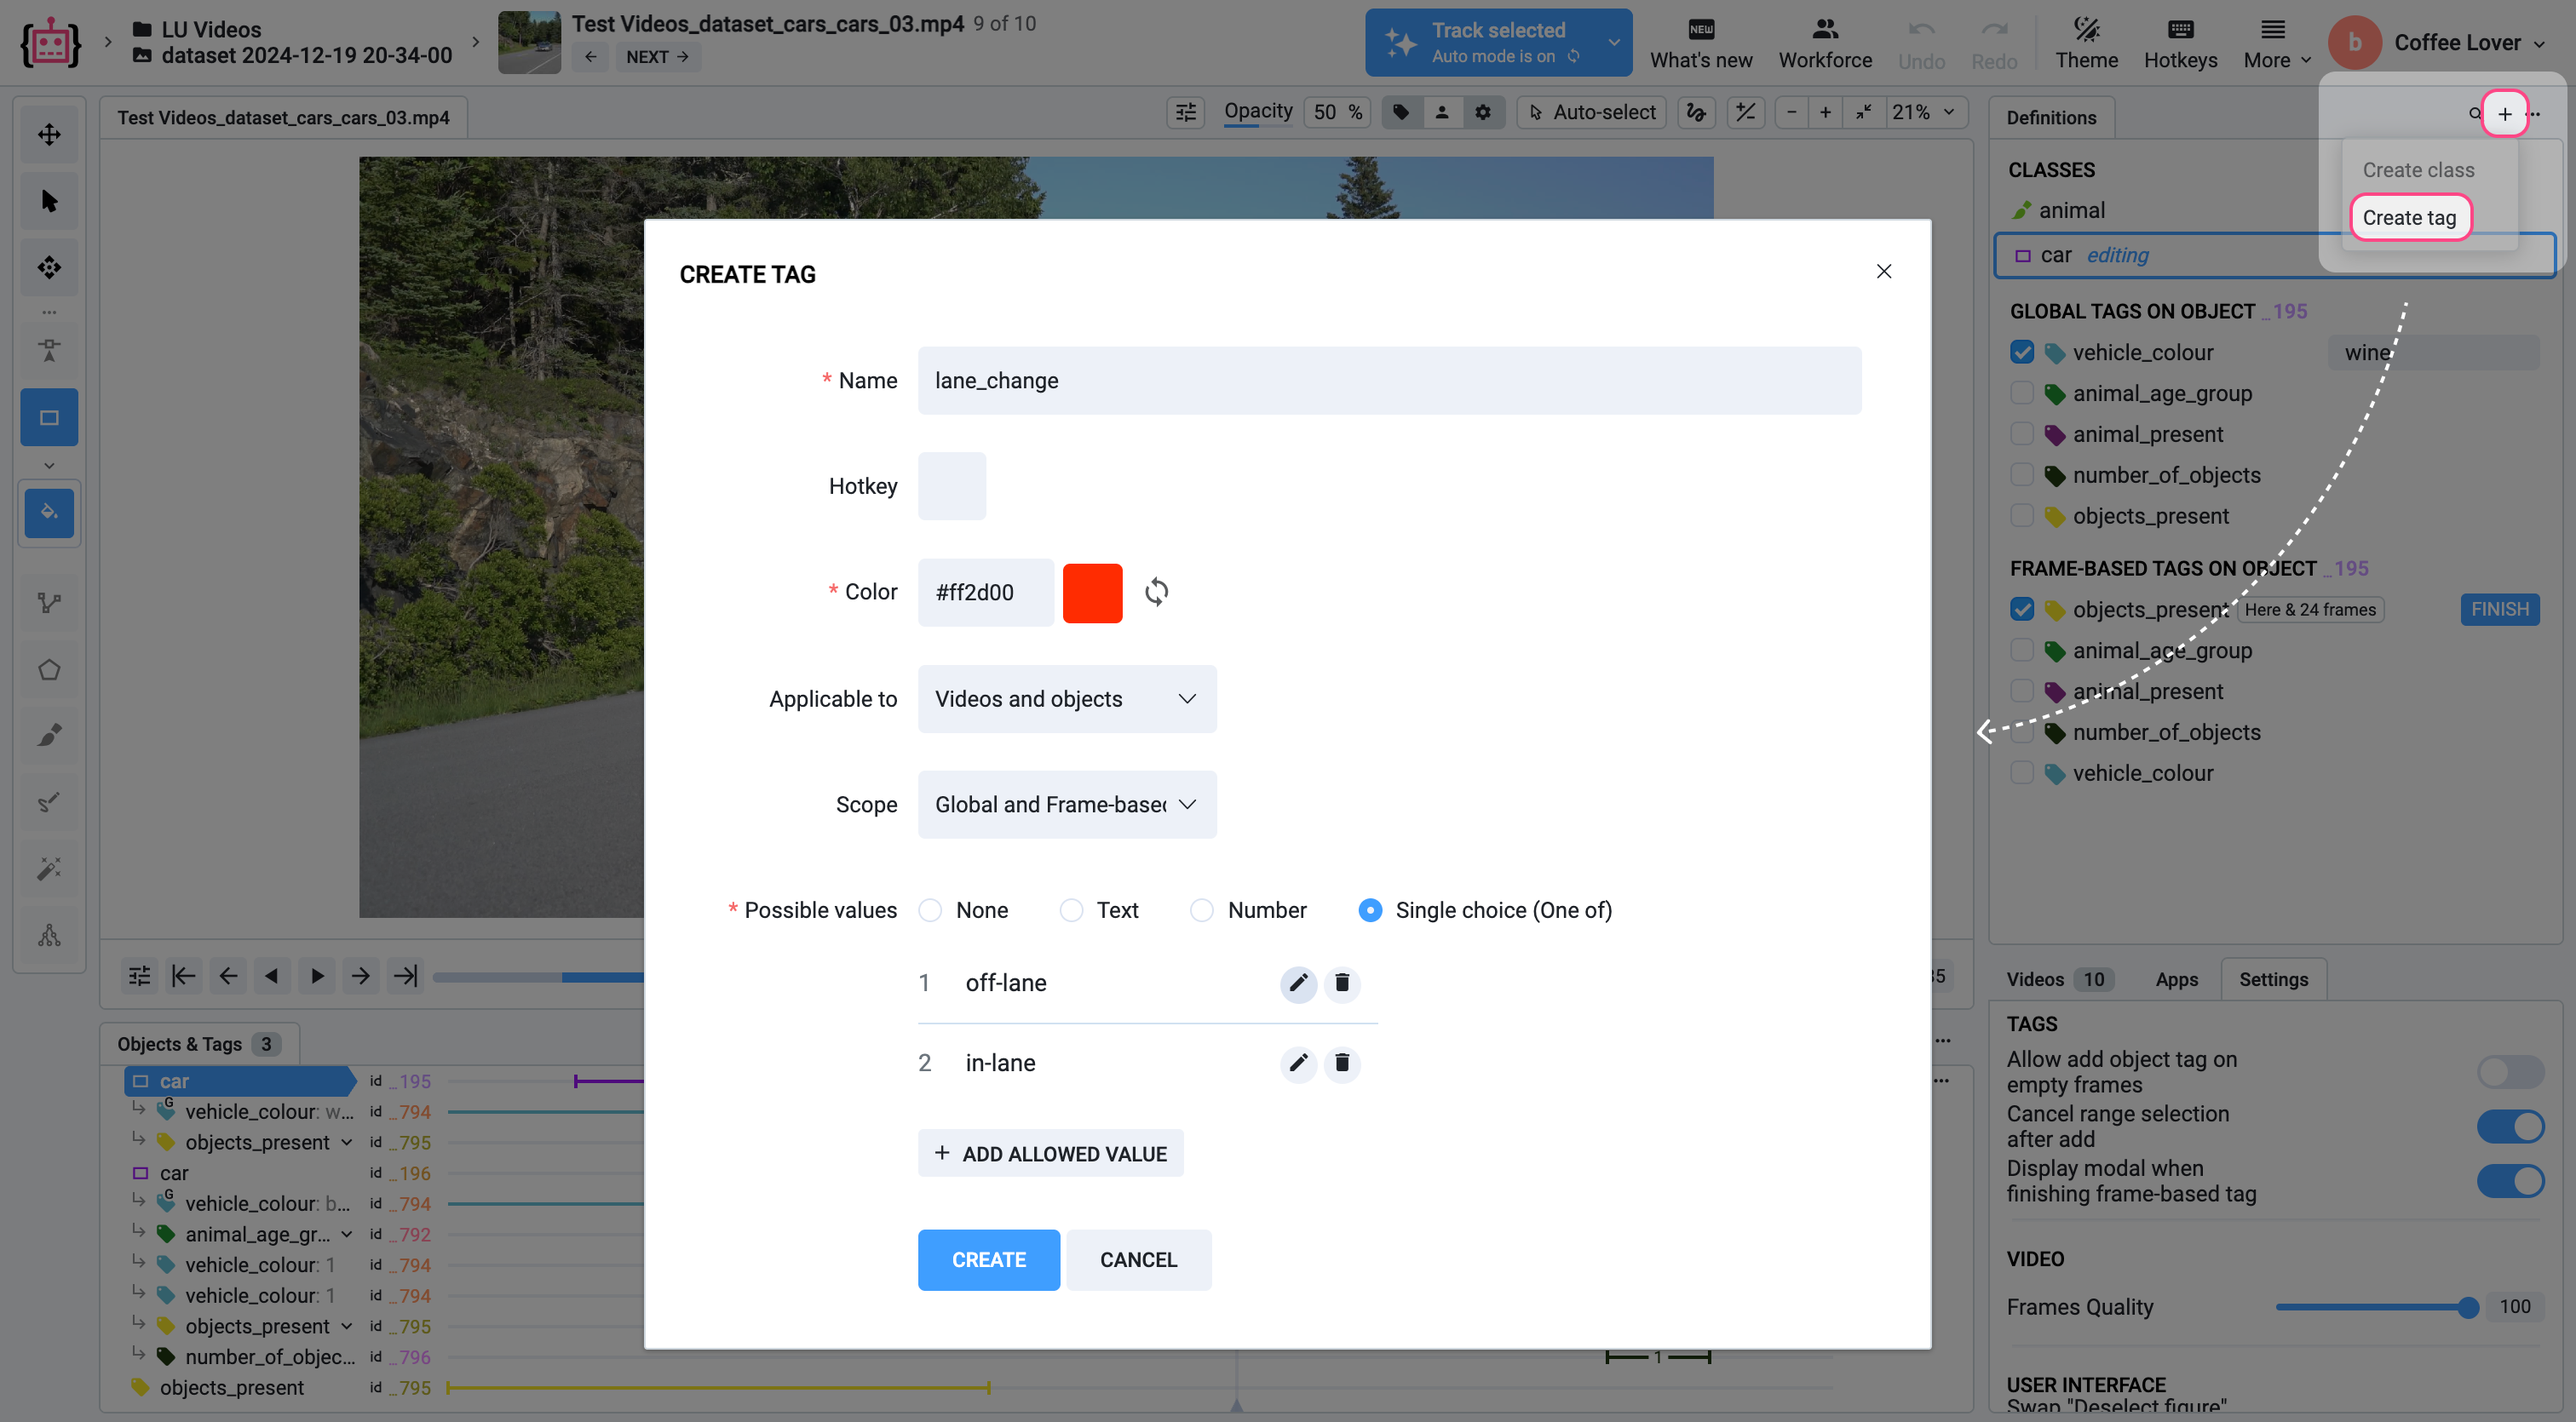
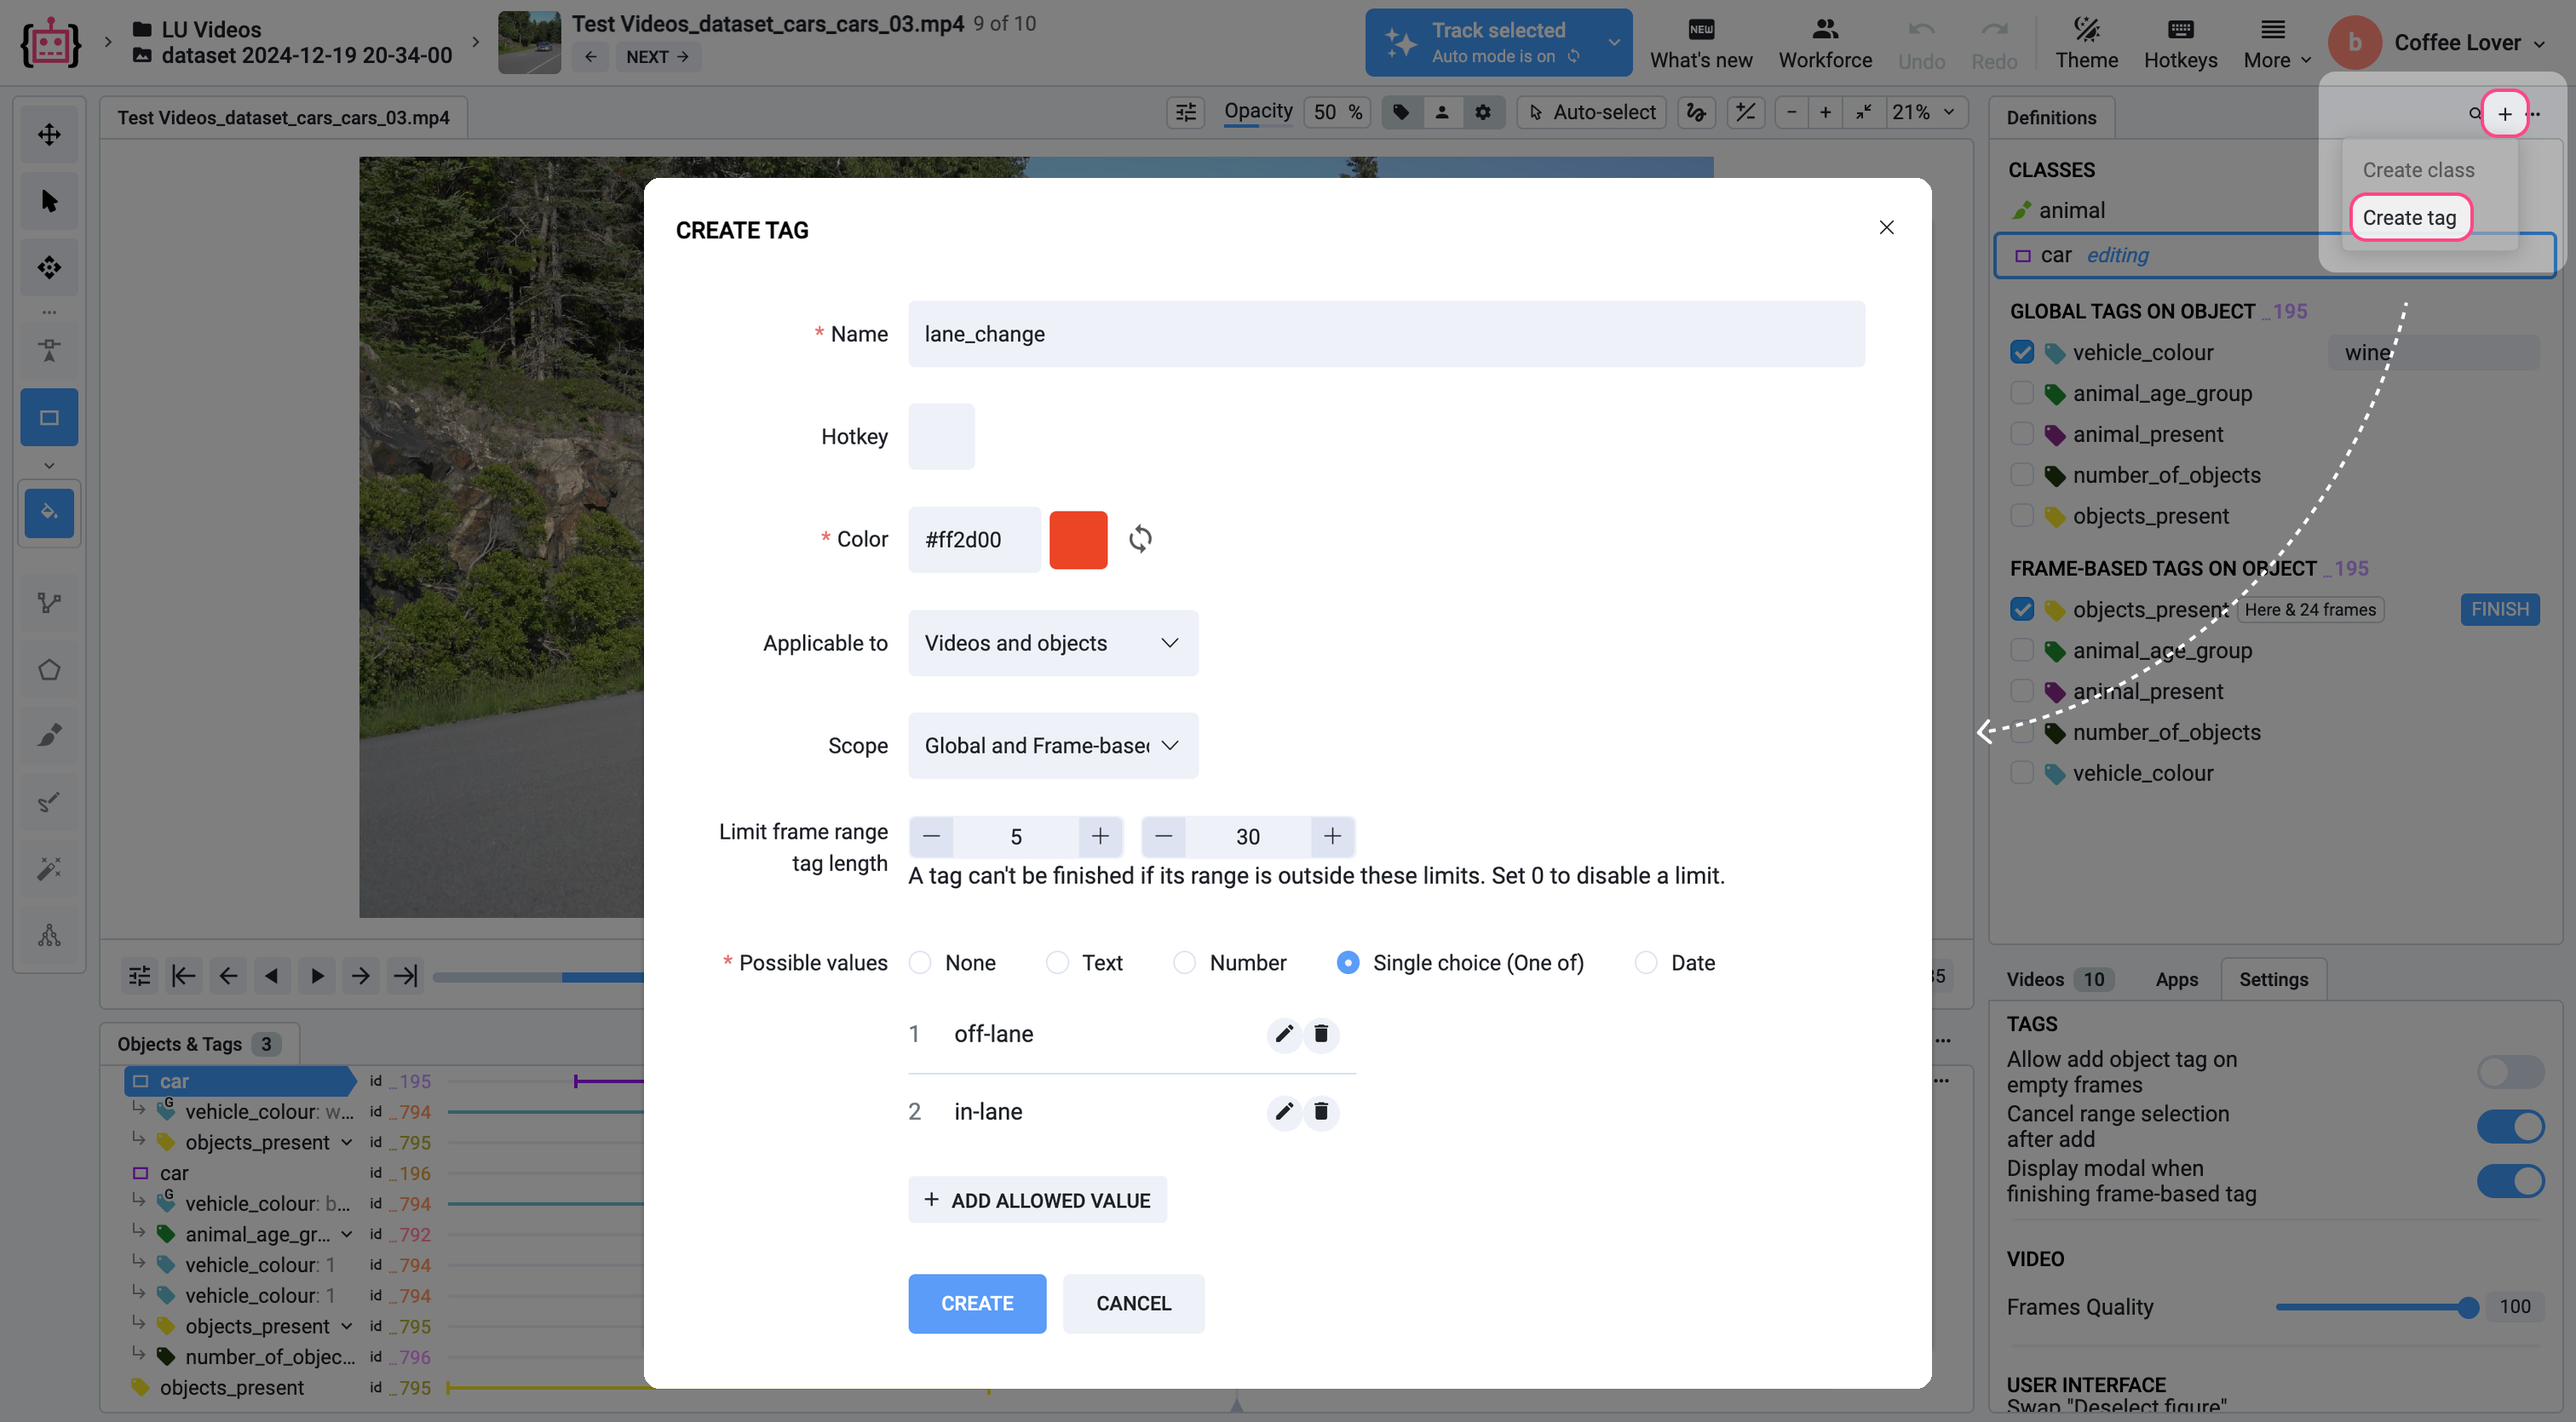
Show the frame range length limits in the toolbox Create tag screenshot
Replaces the modal in f-b-t_new_tag.png with a fresh capture of the same
dialog, taken with the same values as before (lane_change, #ff2d00, Videos and
objects, Global and Frame-based, Single choice with off-lane / in-lane) plus the
limits filled in. Only the modal region is swapped, so the surrounding
toolbox — project, panels, the arrow pointing at Create tag — is untouched.

The card box was measured on rows and columns that run blank through it
(x 758..2265, y 259..1582) rather than from per-column white pixel counts,
which the rounded corners pull inward, and the replacement is pasted 2px
proud of it on every side so no edge of the old card survives.

Also corrects the section text: the toolbox dialog shows the two length fields
outright, unlike the project definitions form where they sit behind the
"Limit frame range tag length" checkbox. The two places are now described
separately instead of as one flow.

diff --git a/labeling/labeling-tools/frame-based-tags.md b/labeling/labeling-tools/frame-based-tags.md
@@ -117,7 +117,10 @@ Click the _**Extend tag range**_ button represented by arrows pointing in opposi
 
 ## Limiting the length of a tag
 
-A frame-based tag can carry a minimum and a maximum length, in frames. Set them per tag on the [project definitions](https://docs.supervisely.com/data-organization/projects/definitions) page, or in the **Create tag** dialog inside the toolbox: tick **Limit frame range tag length** and fill **Min frames** / **Max frames**.
+A frame-based tag can carry a minimum and a maximum length, in frames. Set them per tag in either place the tag can be defined:
+
+* on the [project definitions](https://docs.supervisely.com/data-organization/projects/definitions) page — tick **Limit frame range tag length**, then fill **Min frames** / **Max frames**;
+* in the **Create tag** dialog inside the toolbox — the two fields are shown next to **Limit frame range tag length** already, as in the screenshot at the top of this page.
 
 <figure><img src="../../.gitbook/assets/new-tag.png" alt="" width="359"><figcaption>A tag that has to cover between 5 and 30 frames</figcaption></figure>
 
